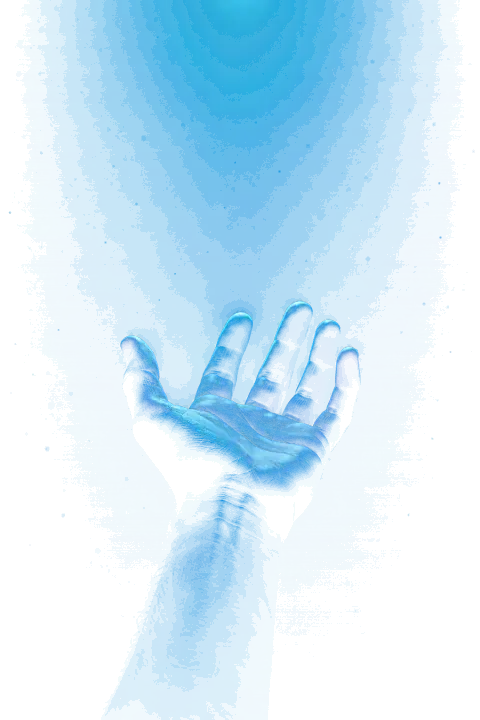
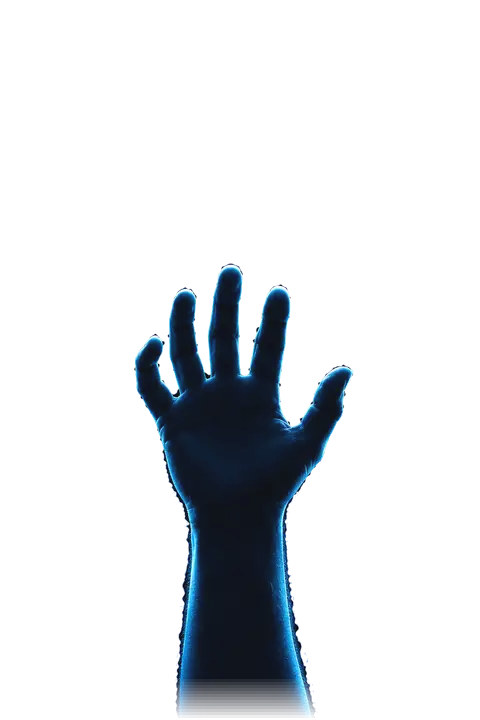
Signed-out hero after the user's mock: void scene, rim-lit hand, orbit planet
- Mountain-free 'void' scene (cloud banks, glossy floor, horizon rings) on Home and sign-in
- New rim-lit hand rising from a floor pool; dark-glass planet with tilted orbit ring and light shaft
- Sign-in: pill badge, 3-line title, Get Started (opens sign-up), real stats row, icon inputs + password eye
- Cinematic entrance, then slow transform/opacity-only idle loops; pill-style active nav link

diff --git a/public/css/app.css b/public/css/app.css
@@ -57,10 +57,12 @@ body.gate nav .links,body.gate nav .nav-r,body.gate .helper-btn,body.gate .tabba
 
 /* auth page */
 /* desktop: title │ the offering │ form — the hand has its own column so nothing overlaps at any height */
-.auth{position:relative;display:grid;grid-template-columns:minmax(0,1fr) 300px minmax(0,380px);gap:36px;align-items:center;min-height:max(620px,calc(100vh - 230px));padding:24px 0}
+.auth{position:relative;display:grid;grid-template-columns:minmax(0,1fr) 220px minmax(0,370px);gap:32px;align-items:center;min-height:700px;padding:24px 0}
+/* signed out: a taller scene drops the floor horizon to ~730px so the hand rises out of it */
+body.gate .scene{height:1040px}
 .auth-copy{grid-area:1/1;position:relative;z-index:1;text-shadow:0 2px 24px rgba(2,12,19,.9)}
 .auth-card{grid-area:1/3;position:relative;z-index:1}
-.auth-copy h1{font-weight:300;font-size:clamp(36px,3.4vw,50px);line-height:1.04;letter-spacing:-.02em;margin:14px 0 22px}
+.auth-copy h1{font-weight:300;font-size:clamp(36px,3.6vw,52px);line-height:1.04;letter-spacing:-.02em;margin:14px 0 22px}
 .auth-points{list-style:none;margin-top:28px;display:grid;gap:12px;font-size:15px;color:#c3dbe6}
 .auth-points li{display:flex;align-items:center;gap:12px}
 .auth-points li>span{display:grid;place-items:center;width:30px;height:30px;border-radius:9px;color:#98d5ee;background:rgba(79,179,218,.12);border:1px solid rgba(79,179,218,.25)}
@@ -79,59 +81,98 @@ body.gate nav .links,body.gate nav .nav-r,body.gate .helper-btn,body.gate .tabba
 .link{color:#98d5ee}
 @media (max-width:900px){.auth{grid-template-columns:1fr;gap:30px;min-height:0}.auth-copy h1{font-size:40px}}
 
-/* ---------- The Offering: hand + live orb ---------- */
-.offering{--px:0;--py:0;--charge:0;--w:400px;--oy:30%;position:relative;width:var(--w);aspect-ratio:2/3;pointer-events:none}
+/* ---------- The Offering: hand + live orb ----------
+   Motion is transform/opacity only on promoted layers, on long eased loops, so it stays smooth over the aurora. */
+.offering{--px:0;--py:0;--charge:0;--w:400px;--oy:30%;--orb:.36;position:relative;width:var(--w);aspect-ratio:2/3;pointer-events:none}
 .offering>*{position:absolute}
-/* the photo is screened onto the page, so its dark backdrop disappears and only the lit hand remains */
-.of-hand{inset:auto 0 0;width:100%;height:auto;z-index:2;
-  -webkit-mask-image:linear-gradient(180deg,transparent 4%,#000 34%,#000 82%,transparent),radial-gradient(70% 60% at 50% 55%,#000 55%,transparent);
-  -webkit-mask-composite:source-in;mask-image:linear-gradient(180deg,transparent 4%,#000 34%,#000 82%,transparent),radial-gradient(70% 60% at 50% 55%,#000 55%,transparent);mask-composite:intersect;
-  animation:ofHand 9s ease-in-out infinite}
-/* planet horizon behind the wrist: the logo's arc, breathing slowly */
-.of-horizon{left:-60%;right:-60%;top:66%;height:30%;border-radius:50%/100% 100% 0 0;z-index:1;
-  background:radial-gradient(60% 18% at 50% 0,rgba(79,179,218,.22),transparent 70%),linear-gradient(180deg,rgba(4,32,46,.85),rgba(2,12,19,0) 80%);
-  box-shadow:inset 0 1px 0 rgba(152,213,238,.55),0 -18px 60px -20px rgba(79,179,218,.5);
-  -webkit-mask-image:linear-gradient(90deg,transparent 12%,#000 38%,#000 62%,transparent 88%);mask-image:linear-gradient(90deg,transparent 12%,#000 38%,#000 62%,transparent 88%);
-  animation:ofBreathe 8s ease-in-out infinite}
-/* the light the orb throws on the palm; it leans toward the pointer */
-.of-light{left:50%;top:var(--oy);width:120%;height:70%;z-index:3;mix-blend-mode:screen;
-  transform:translate(calc(-50% + var(--px)*26px),-6%);
-  background:radial-gradient(38% 22% at 50% 48%,rgba(152,213,238,calc(.20 + var(--charge)*.18)),transparent 70%),radial-gradient(18% 30% at 50% 12%,rgba(79,179,218,.25),transparent 75%);
-  animation:ofBreathe 6s ease-in-out infinite}
-.of-orb{left:50%;top:var(--oy);width:calc(var(--w)*.36);aspect-ratio:1;z-index:4;padding:0;border-radius:50%;
-  translate:calc(-50% + var(--px)*14px) calc(-50% + var(--py)*10px);animation:ofFloat 6s ease-in-out infinite}
-.of-orb::before{content:"";position:absolute;inset:8%;border-radius:50%;z-index:-1;
-  background:radial-gradient(circle,rgba(79,179,218,calc(.5 + var(--charge)*.4)),rgba(23,134,180,.18) 45%,transparent 70%);
-  transform:scale(calc(1.25 + var(--charge)*.35));transition:transform .6s,background .6s}
-.of-orb canvas{width:100%;height:100%;display:block}
-.of-orb i{position:absolute;inset:17%;border-radius:50%;border:1px solid rgba(152,213,238,.32);opacity:0;animation:ofRipple 5.6s cubic-bezier(.2,.6,.3,1) infinite}
-.of-orb i+i{animation-delay:2.8s}
+.of-hand{inset:auto 0 0;width:100%;height:auto;z-index:2;will-change:transform;
+  -webkit-mask-image:linear-gradient(180deg,transparent 2%,#000 30%,#000 84%,transparent 99%);mask-image:linear-gradient(180deg,transparent 2%,#000 30%,#000 84%,transparent 99%);
+  animation:ofHand 11s cubic-bezier(.45,0,.55,1) infinite}
+/* pool of light the hand rises from */
+.of-pool{left:-55%;right:-55%;bottom:4%;height:18%;z-index:1;
+  background:radial-gradient(50% 30% at 50% 50%,rgba(225,242,250,.55),rgba(79,179,218,.32) 30%,rgba(23,134,180,.12) 60%,transparent 75%);
+  will-change:opacity;animation:ofPulse 7s cubic-bezier(.45,0,.55,1) infinite}
+.of-pool::after{content:"";position:absolute;left:18%;right:18%;top:50%;height:1.5px;background:linear-gradient(90deg,transparent,rgba(225,242,250,.9),transparent)}
+/* soft column of light between the orb and the palm */
+.of-beam{left:50%;top:var(--oy);width:46%;height:52%;z-index:1;translate:-50% 0;
+  background:radial-gradient(50% 50% at 50% 50%,rgba(79,179,218,.28),rgba(23,134,180,.08) 55%,transparent 75%);
+  will-change:opacity;animation:ofPulse 7s cubic-bezier(.45,0,.55,1) infinite -3.5s}
+/* the shaft of light rising above the orb */
+.of-shaft{left:50%;top:calc(var(--oy) - 46%);width:22%;height:46%;z-index:3;translate:-50% 0;
+  background:linear-gradient(0deg,rgba(152,213,238,.5),rgba(79,179,218,.12) 45%,transparent);border-radius:50%;
+  -webkit-mask-image:radial-gradient(50% 100% at 50% 100%,#000 30%,transparent);mask-image:radial-gradient(50% 100% at 50% 100%,#000 30%,transparent);
+  will-change:opacity;animation:ofPulse 6s cubic-bezier(.45,0,.55,1) infinite -1s}
+.of-orb{left:50%;top:var(--oy);width:calc(var(--w)*var(--orb));aspect-ratio:1;z-index:4;padding:0;border-radius:50%;will-change:transform;
+  translate:calc(-50% + var(--px)*14px) calc(-50% + var(--py)*10px);animation:ofFloat 8s cubic-bezier(.45,0,.55,1) infinite}
+.of-orb::before{content:"";position:absolute;inset:6%;border-radius:50%;z-index:-1;
+  background:radial-gradient(circle,rgba(79,179,218,calc(.5 + var(--charge)*.4)),rgba(23,134,180,.2) 45%,transparent 70%);
+  transform:scale(calc(1.3 + var(--charge)*.35));transition:transform 1.2s cubic-bezier(.2,.7,.2,1)}
+.of-orb canvas{position:relative;z-index:1;width:100%;height:100%;display:block}
+.of-orb i{position:absolute;inset:16%;border-radius:50%;border:1px solid rgba(152,213,238,.3);opacity:0;will-change:transform,opacity;animation:ofRipple 7s cubic-bezier(.2,.6,.3,1) infinite}
+.of-orb i+i{animation-delay:3.5s}
+/* tilted orbit: the back half sits behind the planet, the front half in front */
+.of-ring{position:absolute;left:50%;top:50%;width:250%;height:72%;border-radius:50%;border:1.2px solid rgba(152,213,238,.55);z-index:0;
+  transform:translate(-50%,-50%) rotate(-24deg);box-shadow:0 0 18px rgba(79,179,218,.25),inset 0 0 18px rgba(79,179,218,.15);
+  -webkit-mask-image:linear-gradient(180deg,#000 50%,transparent 50%);mask-image:linear-gradient(180deg,#000 50%,transparent 50%)}
+.of-ring.front{z-index:2;-webkit-mask-image:linear-gradient(0deg,#000 50%,transparent 50%);mask-image:linear-gradient(0deg,#000 50%,transparent 50%)}
 .of-tag{left:calc(50% + var(--dx));top:calc(var(--oy) + var(--dy));z-index:5;translate:-50% -50%;text-align:center;white-space:nowrap;
-  font-size:13px;color:var(--text);line-height:1.35;animation:ofTag 1s cubic-bezier(.2,.7,.2,1) both;animation-delay:calc(var(--d,6) * 110ms)}
+  font-size:13px;color:var(--text);line-height:1.35;animation:ofTag 1.2s cubic-bezier(.2,.7,.2,1) both;animation-delay:calc(var(--d,6) * 110ms)}
 .of-tag small{display:block;font-size:10.5px;letter-spacing:.22em;text-transform:uppercase;color:var(--muted)}
-.of-tag::before{content:"";position:absolute;left:50%;top:-12px;width:3px;height:3px;border-radius:50%;background:#e1f2fa;box-shadow:0 0 8px 2px rgba(79,179,218,.8);animation:ofGlint 3.2s ease-in-out infinite;animation-delay:calc(var(--d,6) * 400ms)}
-button.of-tag{pointer-events:auto;padding:6px 10px;border-radius:12px;transition:background .25s}
-button.of-tag:hover,button.of-tag:focus-visible{background:rgba(79,179,218,.1)}
+.of-tag::before{content:"";position:absolute;left:50%;top:-12px;width:3px;height:3px;border-radius:50%;background:#e1f2fa;box-shadow:0 0 8px 2px rgba(79,179,218,.8);animation:ofGlint 3.6s ease-in-out infinite;animation-delay:calc(var(--d,6) * 400ms)}
+button.of-tag{pointer-events:auto;padding:7px 12px;border-radius:12px;background:rgba(2,14,22,.55);border:1px solid rgba(79,179,218,.18);backdrop-filter:blur(6px);-webkit-backdrop-filter:blur(6px);transition:background .3s,border-color .3s}
+button.of-tag:hover,button.of-tag:focus-visible{background:rgba(10,60,85,.55);border-color:rgba(79,179,218,.45)}
 button.of-orb{pointer-events:auto;cursor:pointer}
 button.of-orb:focus-visible{outline:1px solid rgba(152,213,238,.7);outline-offset:4px}
-.of-ask span{display:inline-block;transition:opacity .38s,transform .38s}
+.of-ask span{display:inline-block;transition:opacity .45s cubic-bezier(.2,.7,.2,1),transform .45s cubic-bezier(.2,.7,.2,1)}
 .of-ask span.out{opacity:0;transform:translateY(6px)}
-@keyframes ofFloat{50%{transform:translateY(-9px)}}
-@keyframes ofHand{50%{transform:translateY(-4px)}}
-@keyframes ofBreathe{50%{opacity:.72}}
-@keyframes ofRipple{0%{opacity:.7;transform:scale(1)}100%{opacity:0;transform:scale(2.3)}}
-@keyframes ofTag{from{opacity:0;filter:blur(6px)}}
+/* entrance: the hand rises from the floor, the planet arrives, the orbit settles — then the idle loops take over */
+.page.on .offering .of-hand{animation:ofRise 2s cubic-bezier(.16,1,.3,1) both,ofHand 11s cubic-bezier(.45,0,.55,1) 2s infinite}
+.page.on .offering .of-orb{animation:ofOrbIn 1.8s cubic-bezier(.16,1,.3,1) .5s both,ofFloat 8s cubic-bezier(.45,0,.55,1) 2.3s infinite}
+.page.on .offering .of-ring{animation:ofRingIn 2.2s cubic-bezier(.16,1,.3,1) .9s both}
+.page.on .offering .of-pool{animation:ofFade 1.6s ease-out both,ofPulse 7s cubic-bezier(.45,0,.55,1) 1.6s infinite}
+.page.on .offering .of-beam,.page.on .offering .of-shaft{animation:ofFade 2s ease-out 1.2s both,ofPulse 7s cubic-bezier(.45,0,.55,1) 3.2s infinite}
+@keyframes ofRise{from{opacity:0;translate:0 70px}}
+@keyframes ofOrbIn{from{opacity:0;scale:.82}}
+@keyframes ofRingIn{from{opacity:0;scale:.6}}
+@keyframes ofFade{from{opacity:0}}
+@keyframes ofFloat{50%{transform:translate3d(0,-10px,0)}}
+@keyframes ofHand{50%{transform:translate3d(0,-5px,0)}}
+@keyframes ofPulse{50%{opacity:.7}}
+@keyframes ofRipple{0%{opacity:.6;transform:scale(1)}100%{opacity:0;transform:scale(2.2)}}
+@keyframes ofTag{from{opacity:0;transform:translate3d(0,8px,0)}}
 @keyframes ofGlint{0%,100%{opacity:.35;transform:scale(.8)}50%{opacity:1;transform:scale(1.3)}}
 
-/* sign-in: the hand rises between the title and the form */
-.of-auth{grid-area:1/2;align-self:center;justify-self:center;--w:340px;z-index:0;margin-bottom:-40px}
+/* sign-in hero, after the reference: title │ the offering │ form */
+.badge-pill{display:inline-flex;align-items:center;gap:10px;padding:7px 14px 7px 12px;border-radius:30px;font-size:11px;letter-spacing:.24em;text-transform:uppercase;color:#cfe6f1;
+  background:rgba(4,32,46,.55);border:1px solid rgba(79,179,218,.35);box-shadow:inset 0 0 12px rgba(79,179,218,.08)}
+.badge-pill i{width:6px;height:6px;border-radius:50%;background:#4fb3da;box-shadow:0 0 10px #4fb3da;animation:ofGlint 2.8s ease-in-out infinite}
+.auth-copy .lede{font-size:19px;color:#a9c6d6;margin-top:-4px}
+.auth-cta{display:flex;gap:16px;margin-top:30px}
+.auth-cta .btn{height:52px;padding:0 28px;font-size:15px;background:linear-gradient(180deg,#4fb3da,#1786b4);border-color:transparent;box-shadow:0 10px 34px -8px rgba(79,179,218,.7),inset 0 1px 0 rgba(255,255,255,.35)}
+.auth-cta .btn:hover{transform:translateY(-1px);box-shadow:0 14px 40px -8px rgba(79,179,218,.85),inset 0 1px 0 rgba(255,255,255,.35)}
+.auth-stats{display:flex;margin-top:40px}
+.auth-stats>div{white-space:nowrap;display:grid;grid-template-columns:auto auto;column-gap:10px;align-items:center;padding:0 26px;border-left:1px solid rgba(79,179,218,.2)}
+.auth-stats>div:first-child{padding-left:0;border-left:0}
+.auth-stats span{color:#98d5ee;grid-row:span 2}
+.auth-stats b{font-weight:400;font-size:20px;line-height:1.1}
+.auth-stats small{font-size:12px;color:var(--muted);grid-column:2}
+.auth-card{padding:34px 32px 28px;background:linear-gradient(180deg,rgba(4,30,44,.78),rgba(2,16,25,.86));border-color:rgba(79,179,218,.3);box-shadow:0 30px 80px -30px rgba(0,0,0,.8),inset 0 1px 0 rgba(152,213,238,.12)}
+.ifld{position:relative;display:block}
+.ifld>.ic{position:absolute;left:16px;top:50%;translate:0 -50%;color:#98d5ee;opacity:.85;pointer-events:none}
+.auth-card .ifld input{height:52px;padding:0 46px 0 48px;border-radius:14px;font-size:14.5px}
+.ifld .eye{position:absolute;right:12px;top:50%;translate:0 -50%;width:30px;height:30px;display:grid;place-items:center;color:var(--muted);border-radius:8px}
+.ifld .eye:hover,.ifld .eye.on{color:#e1f2fa}
+.sr{position:absolute;width:1px;height:1px;overflow:hidden;clip:rect(0 0 0 0);white-space:nowrap}
+.of-auth{grid-area:1/2;align-self:end;justify-self:center;--w:380px;--oy:27%;--orb:.56;z-index:0;margin-bottom:-2px}
+.of-auth .of-hand{-webkit-mask-image:linear-gradient(180deg,transparent 2%,#000 30%,#000 80%,transparent 88%);mask-image:linear-gradient(180deg,transparent 2%,#000 30%,#000 80%,transparent 88%)}
 /* Home: the hand sits right of the search; below 1280px the stacked words return */
-.of-home{display:none;position:absolute;right:-12px;top:-46px;--w:330px;--oy:30%}
-.offering::after{content:"";position:absolute;inset:-12% -38% -4%;z-index:0;background:radial-gradient(closest-side at 50% 42%,rgba(2,14,22,.86),rgba(3,22,33,.6) 55%,rgba(2,12,19,0))}
-.of-home .of-tag{font-size:12.5px}
+.of-home{display:none;position:absolute;right:-6px;top:-40px;--w:330px;--oy:27%;--orb:.48}
+.of-home .of-tag{font-size:12.5px;text-shadow:0 1px 12px #020c13,0 0 4px #020c13}
+.of-home .of-hand{-webkit-mask-image:linear-gradient(180deg,transparent 2%,#000 30%,#000 80%,transparent 88%);mask-image:linear-gradient(180deg,transparent 2%,#000 30%,#000 80%,transparent 88%)}
+.of-home .of-ring{width:210%;border-color:rgba(152,213,238,.4)}
 @media (min-width:1280px){#p-home .hero .side{display:none}.of-home{display:block}}
 @media (max-width:1100px){.auth{grid-template-columns:minmax(0,1fr) minmax(0,400px)}.auth-card{grid-area:1/2}.of-auth{display:none}}
-@media (max-width:900px){.auth{grid-template-columns:1fr}.auth-copy,.auth-card,.of-auth{grid-area:auto}.of-auth{display:block;margin:-10px auto -150px;--w:300px;order:-1}.of-auth .of-tag{display:none}}
+@media (max-width:900px){.auth{grid-template-columns:1fr}.auth-copy,.auth-card,.of-auth{grid-area:auto}.of-auth{display:block;margin:-10px auto -110px;--w:300px;order:-1}.auth-stats>div{padding:0 14px}}
 @media (prefers-reduced-motion:reduce){.offering *{animation:none!important}}
 
 

diff --git a/public/js/app.js b/public/js/app.js
@@ -399,10 +399,14 @@ const GREEN=strip([[0,'rgba(15,94,131,0)'],[.3,'rgba(23,134,180,.24)'],[.62,'rgb
 const CYAN=strip([[0,'rgba(10,60,85,0)'],[.35,'rgba(15,94,131,.22)'],[.7,'rgba(79,179,218,.35)'],[.92,'rgba(225,242,250,.85)'],[1,'rgba(225,242,250,0)']]);
 const VIOLET=strip([[0,'rgba(10,60,85,0)'],[.4,'rgba(15,94,131,.3)'],[.85,'rgba(23,134,180,.6)'],[1,'rgba(23,134,180,0)']]);
 const SCN={
- home:{seed:11,trees:.6,figure:false,r:[
-  {u0:.22,u1:1.08,y0:0.65,y1:0.46,amp:.07,f:2.2,h:0.84,a:1,ph:0,sp:1,s:GREEN},
-  {u0:.45,u1:1.1,y0:0.54,y1:0.41,amp:.05,f:1.6,h:0.61,a:.7,ph:2,sp:.7,s:VIOLET},
-  {u0:.05,u1:.6,y0:0.68,y1:0.62,amp:.05,f:1.4,h:0.54,a:.55,ph:4,sp:.8,s:CYAN}]},
+ home:{seed:11,trees:.6,figure:false,void:true,floorX:1290,r:[
+  {u0:.5,u1:1.12,y0:0.6,y1:0.5,amp:.07,f:2.2,h:0.84,a:1,ph:0,sp:1,s:GREEN}, // brightest curtain sits behind the hand, not the headline
+  {u0:.3,u1:1.1,y0:0.5,y1:0.41,amp:.05,f:1.6,h:0.61,a:.6,ph:2,sp:.7,s:VIOLET},
+  {u0:.02,u1:.5,y0:0.5,y1:0.46,amp:.05,f:1.4,h:0.5,a:.32,ph:4,sp:.8,s:CYAN}]},
+ auth:{seed:17,void:true,floorX:800,r:[
+  {u0:.1,u1:.75,y0:0.65,y1:0.46,amp:.07,f:2.2,h:0.84,a:1,ph:0,sp:1,s:GREEN},
+  {u0:.55,u1:1.1,y0:0.54,y1:0.41,amp:.05,f:1.6,h:0.61,a:.7,ph:2,sp:.7,s:VIOLET},
+  {u0:-.05,u1:.45,y0:0.68,y1:0.62,amp:.05,f:1.4,h:0.54,a:.55,ph:4,sp:.8,s:CYAN}]},
  builder:{seed:23,trees:.3,figure:false,planet:true,r:[
   {u0:.4,u1:1.1,y0:0.52,y1:0.68,amp:.08,f:2,h:0.81,a:.9,ph:1,sp:1,s:GREEN},
   {u0:.55,u1:1.05,y0:0.44,y1:0.53,amp:.05,f:1.5,h:0.68,a:.8,ph:3,sp:.6,s:VIOLET}]},
@@ -436,7 +440,36 @@ function trees(seed,dens){
 // graded to moonlight offline (img/mountains-*.webp, also CC BY-SA 3.0). Static bitmaps instead of SVG filters keep the
 // aurora and meteors animating smoothly.
 const MTN={src:'img/mountains-night.webp',ref:'img/mountains-reflect.webp',x:-120,w:1840,h:236,y:386}; // overscan: the scene's slice scaling crops the sides
+// Mountain-free "void" scene (c.void): soft cloud banks under the aurora and a dark glossy floor with perspective rings
+// centred on c.floorX. Gradients and opacity only, never SVG filters (see "Scene performance" in CLAUDE.md).
+function voidSVG(c){
+  const id='s'+c.seed+'v',R=rng(c.seed),fx=c.floorX??800,f=n=>n.toFixed(1);
+  const bank=(yTop,yLow,wMin,wMax,k)=>{ // cumulus-like rim: rounded cubic billows between pinched troughs, on a slow roll
+    const roll=x=>Math.sin(x*.0021+k*1.7+c.seed)*(yLow-yTop)*.16,trough=x=>yLow-R()*(yLow-yTop)*.35+roll(x);
+    let x=-200,y=trough(x),d=`M${x} ${f(y)}`;
+    while(x<1800){const w=wMin+R()*(wMax-wMin),nx=x+w,ny=trough(nx),top=yTop+R()*(yLow-yTop)*.5+roll(x+w/2),cy=(top-.25*(y+ny)/2)/.75;
+      d+=`C${f(x+w*.18)} ${f(cy)} ${f(nx-w*.18)} ${f(cy)} ${f(nx)} ${f(ny)}`;x=nx;y=ny}
+    return{rim:d,fill:d+`L${f(x)} ${HZ+2}L-200 ${HZ+2}Z`};
+  };
+  const L=[[330,400,160,340,.18],[388,452,170,380,.14],[446,508,130,300,.1]].map(([t,b,w0,w1,lit],k)=>({t,b,lit,...bank(t,b,w0,w1,k)}));
+  const rings=[260,448,636,824,1012,1200].map((rx,i)=>`<ellipse cx="${fx}" cy="${HZ+40}" rx="${rx}" ry="${f(rx*.08)}" fill="none" stroke="rgba(79,179,218,${[.22,.18,.14,.1,.07,.05][i]})" stroke-width="1"/>`).join('');
+  return`<defs>
+    ${L.map((l,k)=>`<linearGradient id="${id}c${k}" gradientUnits="userSpaceOnUse" x1="0" y1="${l.t}" x2="0" y2="${l.b}"><stop offset="0" stop-color="rgba(4,32,46,0)"/><stop offset=".3" stop-color="rgba(3,22,33,.82)"/><stop offset="1" stop-color="rgba(2,12,19,.95)"/></linearGradient><linearGradient id="${id}r${k}" gradientUnits="userSpaceOnUse" x1="0" y1="${l.t}" x2="0" y2="${l.b}"><stop offset="0" stop-color="rgba(79,179,218,${l.lit})"/><stop offset="1" stop-color="rgba(79,179,218,0)"/></linearGradient>`).join('')}
+    <radialGradient id="${id}hz" cx="${fx/1600}" cy="1" r=".6"><stop offset="0" stop-color="rgba(79,179,218,.12)"/><stop offset="1" stop-color="rgba(79,179,218,0)"/></radialGradient>
+    <linearGradient id="${id}fl" x1="0" y1="0" x2="0" y2="1"><stop offset="0" stop-color="#020c13" stop-opacity=".82"/><stop offset="1" stop-color="#01070b"/></linearGradient>
+    <radialGradient id="${id}gl"><stop offset="0" stop-color="rgba(79,179,218,.35)"/><stop offset="1" stop-color="rgba(79,179,218,0)"/></radialGradient>
+    <linearGradient id="${id}hl" x1="0" y1="0" x2="0" y2="1"><stop offset="0" stop-color="rgba(152,213,238,0)"/><stop offset=".5" stop-color="rgba(152,213,238,.16)"/><stop offset="1" stop-color="rgba(152,213,238,0)"/></linearGradient>
+    <clipPath id="${id}below"><rect x="-200" y="${HZ}" width="2000" height="${800-HZ}"/></clipPath></defs>
+  <rect x="-200" y="260" width="2000" height="${HZ-260}" fill="url(#${id}hz)"/>
+  ${L.map((l,k)=>`<path d="${l.fill}" fill="url(#${id}c${k})"/><path d="${l.rim}" fill="none" stroke="url(#${id}r${k})" stroke-opacity=".35" stroke-width="7"/><path d="${l.rim}" fill="none" stroke="url(#${id}r${k})" stroke-width="1.5"/>`).join('')}
+  <rect x="-200" y="${HZ}" width="2000" height="${800-HZ}" fill="url(#${id}fl)"/>
+  <ellipse cx="${fx}" cy="${HZ+10}" rx="420" ry="60" fill="url(#${id}gl)"/>
+  <g clip-path="url(#${id}below)">${rings}</g>
+  <rect x="-200" y="${HZ-15}" width="2000" height="30" fill="url(#${id}hl)"/>
+  <rect x="-200" y="${HZ-.75}" width="2000" height="1.5" fill="rgba(152,213,238,.35)"/>`;
+}
 function sceneSVG(c){
+  if(c.void)return voidSVG(c);
   const id='s'+c.seed,M=MTN,fx=c.seed%2===0?'transform="translate(1600 0) scale(-1 1)"':''; // even seeds mirror the range for variety
   const fg=ridge(c.seed+13,530,556,.6),tr=`<path d="${trees(c.seed,c.trees)}" fill="#02050d"/>`;
   const photo=(href,y)=>`<image href="${href}" x="${M.x}" y="${y}" width="${M.w}" height="${M.h}" preserveAspectRatio="none" ${fx}/>`;

diff --git a/public/index.html b/public/index.html
@@ -61,23 +61,22 @@
 <section class="page" id="p-auth">
   <div class="auth">
     <div class="offering of-auth" id="ofAuth" aria-hidden="true">
-      <div class="of-horizon"></div>
-      <img class="of-hand" src="img/hero-hand.webp" srcset="img/hero-hand-sm.webp 480w, img/hero-hand.webp 760w" sizes="400px" alt="" width="760" height="1140">
-      <div class="of-light"></div>
-      <div class="of-orb"><canvas class="globe calm"></canvas><i></i><i></i></div>
-      <div class="of-tag" style="--dx:0px;--dy:-96px;--d:6"><small>Tools</small>750 curated</div>
-      <div class="of-tag" style="--dx:-122px;--dy:6px;--d:7"><small>Playbooks</small>20 guided</div>
-      <div class="of-tag" style="--dx:122px;--dy:6px;--d:8"><small>Sync</small>Every device</div>
+      <div class="of-pool"></div>
+      <div class="of-beam"></div>
+      <img class="of-hand" src="img/hero-hand.webp" srcset="img/hero-hand-sm.webp 480w, img/hero-hand.webp 760w" sizes="380px" alt="" width="760" height="1140">
+      <div class="of-shaft"></div>
+      <div class="of-orb"><span class="of-ring"></span><canvas class="globe calm"></canvas><i></i><i></i><span class="of-ring front"></span></div>
     </div>
     <div class="auth-copy">
-      <div class="eyebrow" data-a>Welcome to Lunorb</div>
-      <h1 data-a style="--d:1">Your AI workspace<br>for bigger <span class="grad">possibilities.</span></h1>
-      <p class="lede" data-a style="--d:2">Find the right tools, follow guided playbooks, and build workflows that get real things done.</p>
-      <ul class="auth-points" data-a style="--d:3">
-        <li><span data-ic="search" data-s="16"></span>750 AI tools across 30 categories</li>
-        <li><span data-ic="check" data-s="16"></span>20 guided playbooks with ready-made prompts</li>
-        <li><span data-ic="flow" data-s="16"></span>A workflow builder that syncs across your devices</li>
-      </ul>
+      <div class="badge-pill" data-a><i></i>Welcome to Lunorb</div>
+      <h1 data-a style="--d:1">Your AI workspace<br>for bigger<br><span class="grad">possibilities.</span></h1>
+      <p class="lede" data-a style="--d:2">Plan. Execute. Achieve.</p>
+      <div class="auth-cta" data-a style="--d:3"><button class="btn solid" id="getStarted">Get Started <span data-ic="arrow" data-s="15"></span></button></div>
+      <div class="auth-stats" data-a style="--d:4">
+        <div><span data-ic="search" data-s="18"></span><b>750+</b><small>Tools &amp; integrations</small></div>
+        <div><span data-ic="check" data-s="18"></span><b>20</b><small>Guided playbooks</small></div>
+        <div><span data-ic="flow" data-s="18"></span><b>30</b><small>Categories</small></div>
+      </div>
     </div>
     <div class="glass auth-card" id="authCard" data-a style="--d:2"></div>
   </div>
@@ -95,13 +94,14 @@
     </div>
     <div class="side" data-a style="--d:3">Ideas<br>Tools<br>People<br>A brighter<br>tomorrow</div>
     <div class="offering of-home" id="ofHome" data-a style="--d:2">
-      <div class="of-horizon"></div>
+      <div class="of-pool"></div>
+      <div class="of-beam"></div>
       <img class="of-hand" src="img/hero-hand-sm.webp" alt="" width="480" height="720" aria-hidden="true">
-      <div class="of-light"></div>
-      <button class="of-orb" id="ofOrb" aria-label="Ask Lunorb"><canvas class="globe calm" aria-hidden="true"></canvas><i></i><i></i></button>
-      <button class="of-tag of-ask" id="ofAsk" style="--dx:0px;--dy:-84px"><small>Ask Lunorb</small><span id="ofAskQ">Plan meals for the week</span></button>
-      <button class="of-tag" data-go="discover" style="--dx:-118px;--dy:6px"><small>Find a tool</small>750 tools</button>
-      <button class="of-tag" data-go="life" style="--dx:118px;--dy:6px"><small>Start a playbook</small>20 guided</button>
+      <div class="of-shaft"></div>
+      <button class="of-orb" id="ofOrb" aria-label="Ask Lunorb"><span class="of-ring"></span><canvas class="globe calm" aria-hidden="true"></canvas><i></i><i></i><span class="of-ring front"></span></button>
+      <button class="of-tag of-ask" id="ofAsk" style="--dx:0px;--dy:-112px"><small>Ask Lunorb</small><span id="ofAskQ">Plan meals for the week</span></button>
+      <button class="of-tag" data-go="discover" style="--dx:-136px;--dy:40px"><small>Find a tool</small>750 tools</button>
+      <button class="of-tag" data-go="life" style="--dx:136px;--dy:40px"><small>Start a playbook</small>20 guided</button>
     </div>
   </div>
 

diff --git a/public/js/cloud.js b/public/js/cloud.js
@@ -193,14 +193,16 @@ const friendly=e=>{const m=e?.message||String(e);
   return/invalid login credentials/i.test(m)?'That email and password don’t match.':/email not confirmed/i.test(m)?'Confirm your email first. Check your inbox for the link.'
     :/rate limit|too many/i.test(m)?'Too many attempts. Wait a minute and try again.':/already registered/i.test(m)?'An account with that email already exists. Try signing in.':m};
 const AUTH={
-  signin:{h:'Welcome back',p:'Sign in to pick up where you left off.',btn:'Sign in',f:['email','password'],extra:'<button type="button" class="link" data-amode="reset">Forgot password?</button>',foot:'New to Lunorb? <button type="button" class="link" data-amode="signup">Create an account</button>'},
+  signin:{h:'Welcome back',p:'Sign in to continue your journey.',btn:'Sign in',f:['email','password'],extra:'<button type="button" class="link" data-amode="reset">Forgot password?</button>',foot:'New to Lunorb? <button type="button" class="link" data-amode="signup">Create an account</button>'},
   signup:{h:'Create your account',p:'Free to start. No card needed.',btn:'Create account',f:['name','email','newpw'],foot:'Already have an account? <button type="button" class="link" data-amode="signin">Sign in</button>'},
   reset:{h:'Reset your password',p:'We’ll email you a link to choose a new one.',btn:'Send reset link',f:['email'],foot:'<button type="button" class="link" data-amode="signin">Back to sign in</button>'},
   update:{h:'Choose a new password',p:'Use at least 8 characters.',btn:'Save password',f:['newpw']}};
-const FIELD={name:'<label class="fld"><span>Your name</span><input name="name" autocomplete="name" maxlength="60" required></label>',
-  email:'<label class="fld"><span>Email</span><input type="email" name="email" autocomplete="email" required></label>',
-  password:'<label class="fld"><span>Password</span><input type="password" name="password" autocomplete="current-password" required></label>',
-  newpw:'<label class="fld"><span>Password <em>at least 8 characters</em></span><input type="password" name="password" autocomplete="new-password" minlength="8" required></label>'};
+// icon fields: the label text stays for screen readers; the eye toggles password visibility (handled below)
+const IN=(icon,label,input,eye)=>`<label class="fld ifld"><span class="sr">${label}</span>${ic(icon,17)}${input}${eye?`<button type="button" class="eye" data-eye aria-label="Show password">${ic('eye',17)}</button>`:''}</label>`;
+const FIELD={name:IN('user','Your name','<input name="name" autocomplete="name" maxlength="60" placeholder="Your name" required>'),
+  email:IN('mail','Email','<input type="email" name="email" autocomplete="email" placeholder="Enter your email address" required>'),
+  password:IN('lock','Password','<input type="password" name="password" autocomplete="current-password" placeholder="Enter your password" required>',1),
+  newpw:IN('lock','Password (at least 8 characters)','<input type="password" name="password" autocomplete="new-password" minlength="8" placeholder="Choose a password (8+ characters)" required>',1)};
 function renderAuth(){
   const c=$('#authCard');
   if(!BACKEND){c.innerHTML=`<div class="eyebrow">Accounts</div><h2>Almost ready</h2><p class="muted-sm">Sign-in switches on once the Supabase project URL is added to <code>js/config.js</code>. Until then Lunorb runs in local mode and saves to this browser.</p><button class="btn solid auth-go" data-go="home">Continue in local mode ${ic('arrow',15)}</button>`;return}
@@ -213,6 +215,7 @@ function renderAuth(){
   setTimeout(()=>c.querySelector('input')?.focus({preventScroll:true}),50); // keep the hero in view; the form is one scroll away on phones
 }
 $('#authCard').addEventListener('click',async e=>{
+  const eye=e.target.closest('[data-eye]');if(eye){const i=eye.parentElement.querySelector('input'),show=i.type==='password';i.type=show?'text':'password';eye.setAttribute('aria-label',show?'Hide password':'Show password');eye.classList.toggle('on',show);return}
   const m=e.target.closest('[data-amode]');if(m){authMode=m.dataset.amode;authNotice='';renderAuth();return}
   if(e.target.closest('#authRetry'))location.reload();
   if(e.target.closest('#authOut')){await sb.auth.signOut({scope:'local'});location.replace(location.pathname)}

diff --git a/public/js/globe.js b/public/js/globe.js
@@ -19,20 +19,20 @@ function drawGlobe(cv,t){
     g.strokeStyle=lg;g.globalAlpha=back?.35:.95;g.lineWidth=Math.max(1,S*.028);g.stroke();
     const a=(t*.0011)%(Math.PI*2),onBack=a>Math.PI;if(onBack===back){g.globalAlpha=back?.4:1;g.fillStyle='#e1f2fa';g.shadowColor='#4fb3da';g.shadowBlur=S*.12;g.beginPath();g.arc(Math.cos(a)*R*1.42,Math.sin(a)*R*.36,S*.035,0,7);g.fill()}
     g.restore()};
-  const halo=g.createRadialGradient(c,c,R*.9,c,c,R*1.6);halo.addColorStop(0,'rgba(79,179,218,.5)');halo.addColorStop(1,'rgba(79,179,218,0)');g.fillStyle=halo;g.fillRect(0,0,S,S);
+  const halo=g.createRadialGradient(c,c,R*.9,c,c,R*(calm?1.38:1.6)); // calm: stay inside the canvas so no square edgehalo.addColorStop(0,'rgba(79,179,218,.5)');halo.addColorStop(1,'rgba(79,179,218,0)');g.fillStyle=halo;g.fillRect(0,0,S,S);
   if(!calm)ring(true);
   const body=g.createRadialGradient(c-R*.38,c-R*.42,R*.05,c,c,R);
-  if(calm){body.addColorStop(0,'#3f9fc6');body.addColorStop(.28,'#0f5e83');body.addColorStop(.65,'#04202e');body.addColorStop(1,'#020c13')}
+  if(calm){body.addColorStop(0,'#2f86ad');body.addColorStop(.3,'#0a3c55');body.addColorStop(.7,'#03141f');body.addColorStop(1,'#01080d')}
   else{body.addColorStop(0,'#e1f2fa');body.addColorStop(.3,'#4fb3da');body.addColorStop(.68,'#0f5e83');body.addColorStop(1,'#04202e')}
   g.fillStyle=body;g.beginPath();g.arc(c,c,R,0,7);g.fill();
   g.save();g.beginPath();g.arc(c,c,R,0,7);g.clip();
   // graticule: meridians and parallels, front half only, fading toward the limb
   g.lineWidth=Math.max(.6,S*.008);
-  const line=f=>{let prev=null;for(let k=0;k<=36;k++){const p=proj(...f(k/36));if(prev&&p[2]>0&&prev[2]>0){g.strokeStyle=`rgba(200,236,250,${.12+.3*p[2]})`;g.beginPath();g.moveTo(prev[0],prev[1]);g.lineTo(p[0],p[1]);g.stroke()}prev=p}};
+  const line=f=>{let prev=null;for(let k=0;k<=36;k++){const p=proj(...f(k/36));if(prev&&p[2]>0&&prev[2]>0){g.strokeStyle=`rgba(200,236,250,${(.12+.3*p[2])*(calm?.14:1)})`;g.beginPath();g.moveTo(prev[0],prev[1]);g.lineTo(p[0],p[1]);g.stroke()}prev=p}};
   for(let m=0;m<6;m++){const lon=m*Math.PI/6;line(u=>{const lat=(u-.5)*Math.PI;return[Math.cos(lat)*Math.cos(lon),Math.sin(lat),Math.cos(lat)*Math.sin(lon)]})}
   for(const lat of[-1,-.5,0,.5,1].map(v=>v*Math.PI/3.2))line(u=>{const lon=u*Math.PI*2;return[Math.cos(lat)*Math.cos(lon),Math.sin(lat),Math.cos(lat)*Math.sin(lon)]});
   GLOBE.pts.forEach((p,i)=>{const q=proj(...p);if(q[2]<=0)return;const L=GLOBE.isLand[i];
-    g.fillStyle=L?`rgba(225,242,250,${(.35+.65*q[2])*(calm?.45:1)})`:`rgba(152,213,238,${.08+.18*q[2]})`;g.beginPath();g.arc(q[0],q[1],(L?.9:.55)*dpr*(.55+.45*q[2])*(S/(44*dpr)),0,7);g.fill()});
+    g.fillStyle=L?`rgba(225,242,250,${(.35+.65*q[2])*(calm?.16:1)})`:`rgba(152,213,238,${(.08+.18*q[2])*(calm?.5:1)})`;g.beginPath();g.arc(q[0],q[1],(L?.9:.55)*dpr*(.55+.45*q[2])*(S/(44*dpr)),0,7);g.fill()});
   // night side and a soft specular highlight sell the curvature
   const shade=g.createRadialGradient(c-R*.5,c-R*.55,R*.2,c,c,R*1.05);shade.addColorStop(0,'rgba(0,0,0,0)');shade.addColorStop(.7,'rgba(2,14,21,.15)');shade.addColorStop(1,'rgba(2,14,21,.7)');
   g.fillStyle=shade;g.fillRect(0,0,S,S);

diff --git a/public/css/styles.css b/public/css/styles.css
@@ -33,11 +33,10 @@ nav .wrap{display:flex;align-items:center;height:72px;gap:40px}
 /* horizontal lockup: mark │ wordmark */
 .logo .mk{flex:none;height:2.1em;width:auto;margin:-.3em 0 0 -.3em}
 .logo .sep{flex:none;width:1px;height:1.3em;margin:0 .8em 0 .45em;background:linear-gradient(180deg,transparent,rgba(160,190,255,.45),transparent)}
-.links{display:flex;gap:30px;font-size:14px;color:var(--muted)}
-.links a{color:inherit;text-decoration:none;position:relative;padding:6px 0;transition:color .2s}
+.links{display:flex;gap:6px;font-size:14px;color:var(--muted);margin-left:auto}
+.links a{color:inherit;text-decoration:none;position:relative;padding:8px 15px;border-radius:30px;border:1px solid transparent;transition:color .3s,background .3s,border-color .3s}
 .links a:hover{color:var(--text)}
-.links a.on{color:var(--text)}
-.links a.on::after{content:"";position:absolute;left:0;right:0;bottom:-2px;height:2px;border-radius:2px;background:var(--blue);box-shadow:0 0 10px var(--blue)}
+.links a.on{color:var(--text);background:rgba(10,60,85,.4);border-color:rgba(79,179,218,.45);box-shadow:inset 0 0 14px rgba(79,179,218,.12),0 0 18px -6px rgba(79,179,218,.5)}
 .nav-r{margin-left:auto;display:flex;align-items:center;gap:22px;color:#c6dde8}
 .nav-r button{display:grid;place-items:center;position:relative}
 .nav-r button:hover{color:#fff}

diff --git a/public/js/offering.js b/public/js/offering.js
@@ -18,6 +18,10 @@
   const auth=$('#ofAuth'),card=$('#authCard');
   if(auth&&card)card.addEventListener('input',()=>{const f=[...card.querySelectorAll('input')];auth.style.setProperty('--charge',f.length?(f.filter(i=>i.value.trim()).length/f.length).toFixed(2):0)});
 
+  // sign-in: Get Started switches the card to sign-up and brings it into view
+  const gs=$('#getStarted');if(gs)gs.onclick=()=>{if(typeof authMode!=='undefined'&&BACKEND){authMode='signup';authNotice='';renderAuth()}
+    card.scrollIntoView({behavior:reduced?'auto':'smooth',block:'center'});setTimeout(()=>card.querySelector('input')?.focus({preventScroll:true}),reduced?0:450)};
+
   // Home: the orb is Ask Lunorb; the label above it cycles through real example questions
   const ask=$('#ofAskQ'),orb=$('#ofOrb'),btn=$('#ofAsk');if(!ask)return;
   const EX=(typeof HELPER_EX!=='undefined'&&HELPER_EX.length?HELPER_EX:['Plan meals for the week']).map(x=>x[0].toUpperCase()+x.slice(1));

diff --git a/CLAUDE.md b/CLAUDE.md
@@ -16,9 +16,24 @@ Lunorb is an AI-workspace product: a directory of 750 tools, guided "everyday" p
 - Data and category colours are deliberately unchanged.
 - The aurora rendering algorithm is still untouched; only its colours changed, at the user's request.
 
+**Signed-out hero (2026-11-19, matched to the user's own generated mock):**
+- Layout:
+  - left: pill badge, a 3-line title, "Plan. Execute. Achieve.", a Get Started button (switches the card to sign-up) and a stats row of real numbers only
+  - middle: the hand and orb
+  - right: the form, with icon inputs and a working password eye
+- Deliberately not copied from the mock: invented stats ("10x", "50K+ users"), Watch Demo, OAuth buttons (not configured in Supabase) and Remember me.
+- `body.gate .scene` is 1040px tall, which drops the floor horizon to about 730px so the hand rises out of it.
+
+**Void scene:**
+- `SCN.home` and `SCN.auth` have `void:true`. `voidSVG()` in app.js then draws cloud banks, a glossy floor, a horizon line and rings centred on `floorX`, instead of the mountains.
+- Other pages keep the mountains.
+- Home's brightest aurora ribbon was moved right, behind the hand, so the headline stays readable.
+
 **The Offering** (`js/offering.js`, `.offering` in app.css):
 - An open hand holds the live Ask Lunorb orb. It appears in the sign-in hero, as the middle column of the copy │ offering │ form grid, and on Home at ≥1280px, where it replaces `.side`.
-- The hand is an original image generated with Figma AI (file "Lunorb — brand assets"). Its dark backdrop was converted to alpha, giving `img/hero-hand*.webp`.
+- The hand is an original image generated with Figma AI (file "Lunorb — brand assets"): a vertical, rim-lit dark hand. It was cut out to alpha with a flood-fill silhouette, giving `img/hero-hand*.webp`.
+- Layers: `.of-pool`, `.of-beam`, `.of-hand`, `.of-shaft` and `.of-orb`. The orb holds `.of-ring` back and front halves (a tilted orbit) around `canvas.globe.calm`.
+- Motion is transform and opacity only. The entrance (`ofRise`/`ofOrbIn`/`ofRingIn`) hands off to the idle loops; it uses the individual `translate`/`scale` properties so the two never conflict.
 - Don't use `mix-blend-mode` for it: `main` has `z-index` and isolates blending.
 - The orb is `canvas.globe.calm`, a dark-glass variant in globe.js with no orbit ring.
 - Behaviour:
